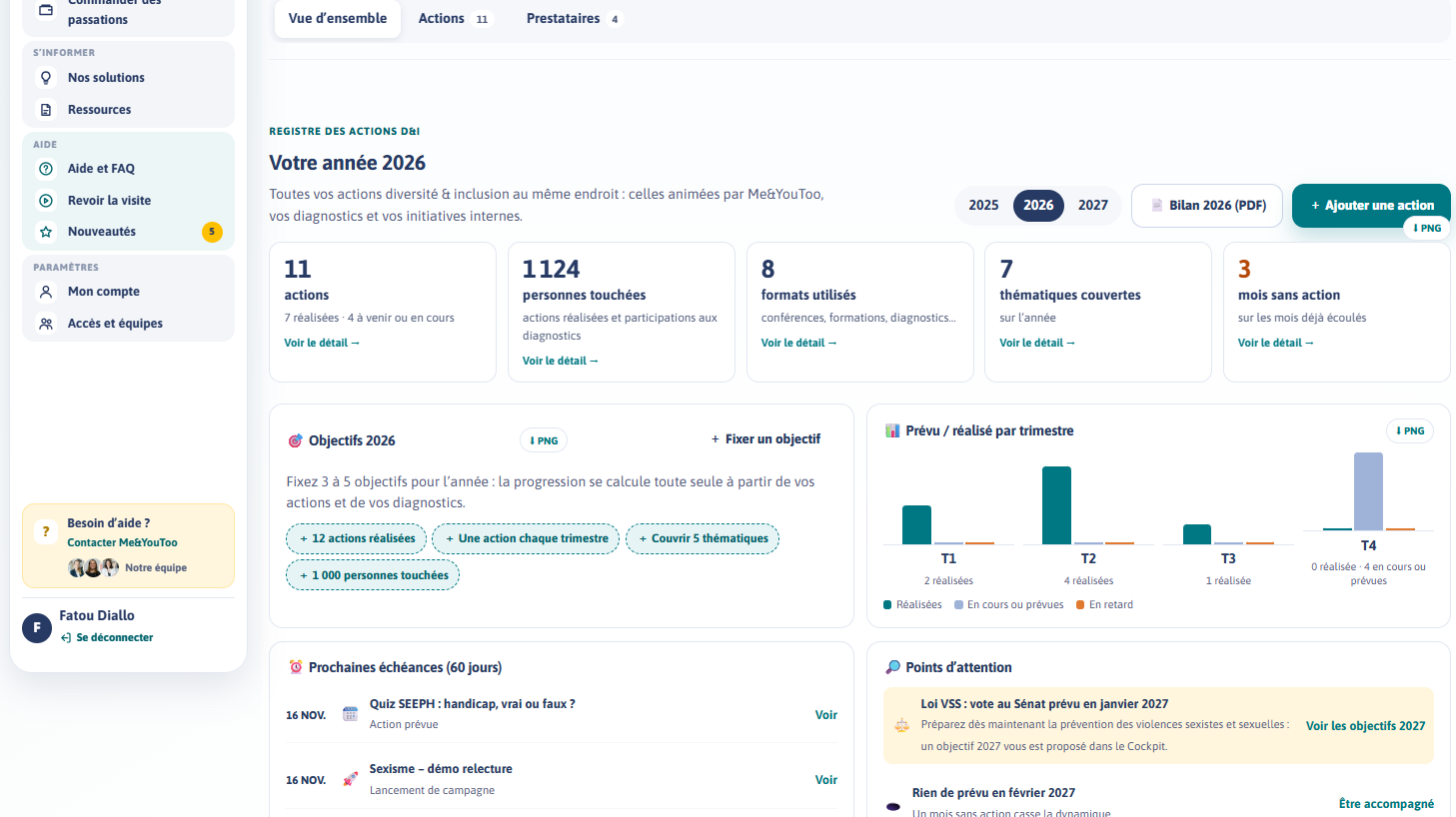
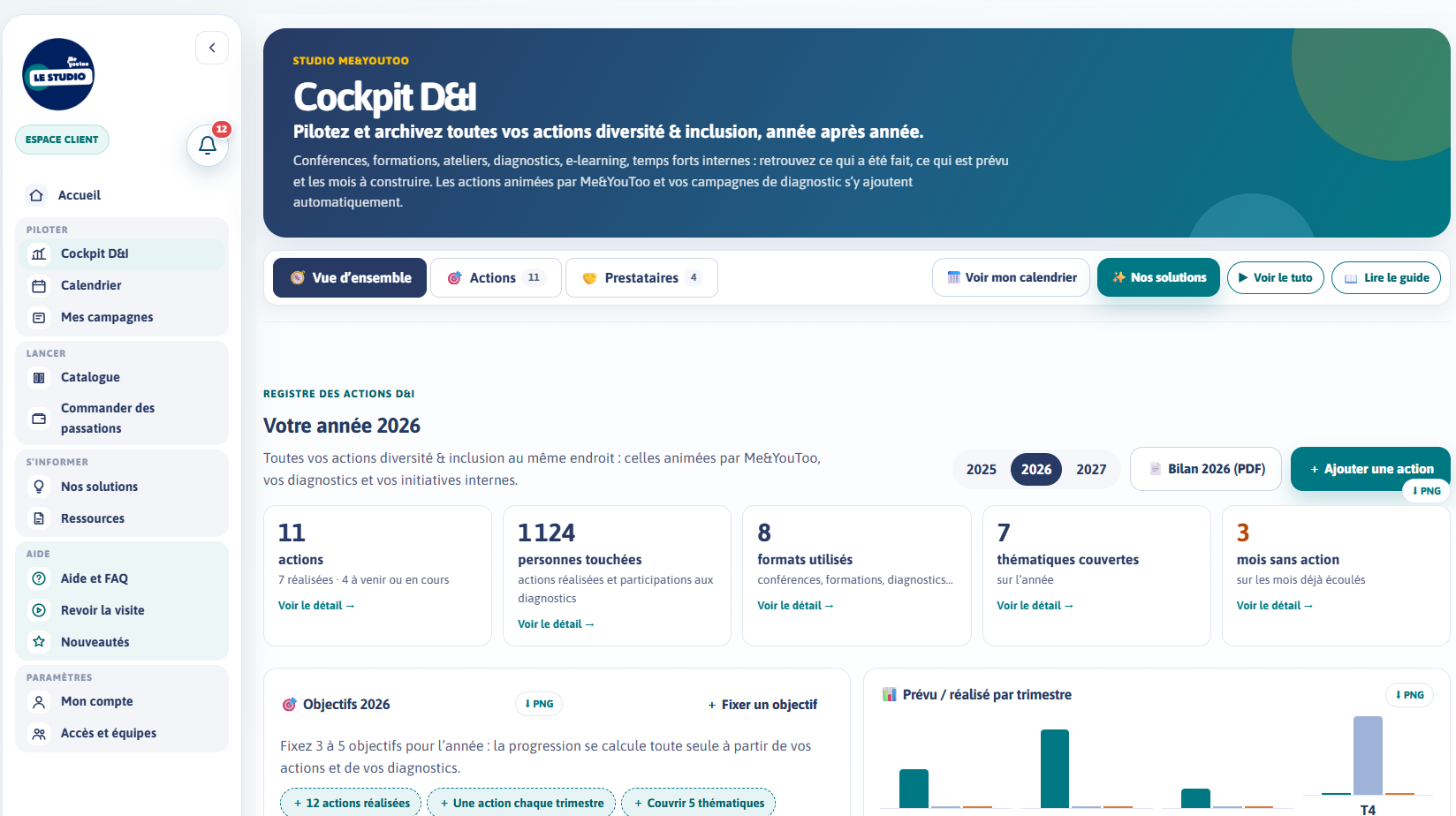
Tuto Découvrir : plan Cockpit avec le nouveau bandeau, voix inchangée

diff --git a/tutos/decouvrir/index.html b/tutos/decouvrir/index.html
@@ -25,7 +25,7 @@ window.TUTO={
     {at:26.63,img:'ecran-2.png',box:[21.7,43.3,11.1,4.2],text:'C’est votre première campagne ? Cliquez sur « Me guider pas à pas » : le Studio vous accompagne à chaque étape, jusqu’à la transmission.'},
     {at:34.75,img:'ecran-2.png',box:[18.2,74.5,81.4,14.6],text:'La mise en place du Studio vous indique ce qu’il reste à faire : ajouter votre logo, inviter votre équipe, disposer d’un pack et transmettre une première campagne.'},
     {at:43.89,img:'ecran-1.png',box:[1.5,26.5,14.7,14.5],text:'Dans le menu, la rubrique « Piloter » regroupe vos outils du quotidien : le Cockpit D&I, le calendrier et toutes vos campagnes.'},
-    {at:52.19,img:'ecran-5.png',box:[18.4,29.6,81.2,17.2],text:'Le Cockpit D&I est le tableau de bord de votre politique diversité et inclusion : vos actions, celles animées par Me&YouToo comme vos initiatives internes, et vos prestataires, réunis et archivés année après année.'},
+    {at:52.19,img:'ecran-5.png?v=2',box:[18.1,3.5,81.6,34],text:'Le Cockpit D&I est le tableau de bord de votre politique diversité et inclusion : vos actions, celles animées par Me&YouToo comme vos initiatives internes, et vos prestataires, réunis et archivés année après année.'},
     {at:63.85,img:'ecran-5.png',box:[18.4,49.4,81.2,50.2],text:'Fixez vos objectifs de l’année : la progression se calcule toute seule, et les points d’attention vous signalent où agir, comme une loi à anticiper ou un mois sans action.'},
     {at:73.15,img:'ecran-7.png',box:[27.1,0.5,46,99],text:'À tout moment, le Bilan D&I réunit vos actions, vos chiffres et vos objectifs dans un PDF prêt à partager avec la direction, le CSE ou dans le rapport RSE.'},
     {at:83.91,img:'ecran-3.png',box:[18.2,60,81.4,31.8],text:'Dans « Mes campagnes », retrouvez chaque campagne avec sa phase d’avancement. « À vous d’agir » signale qu’une action vous attend.'},
